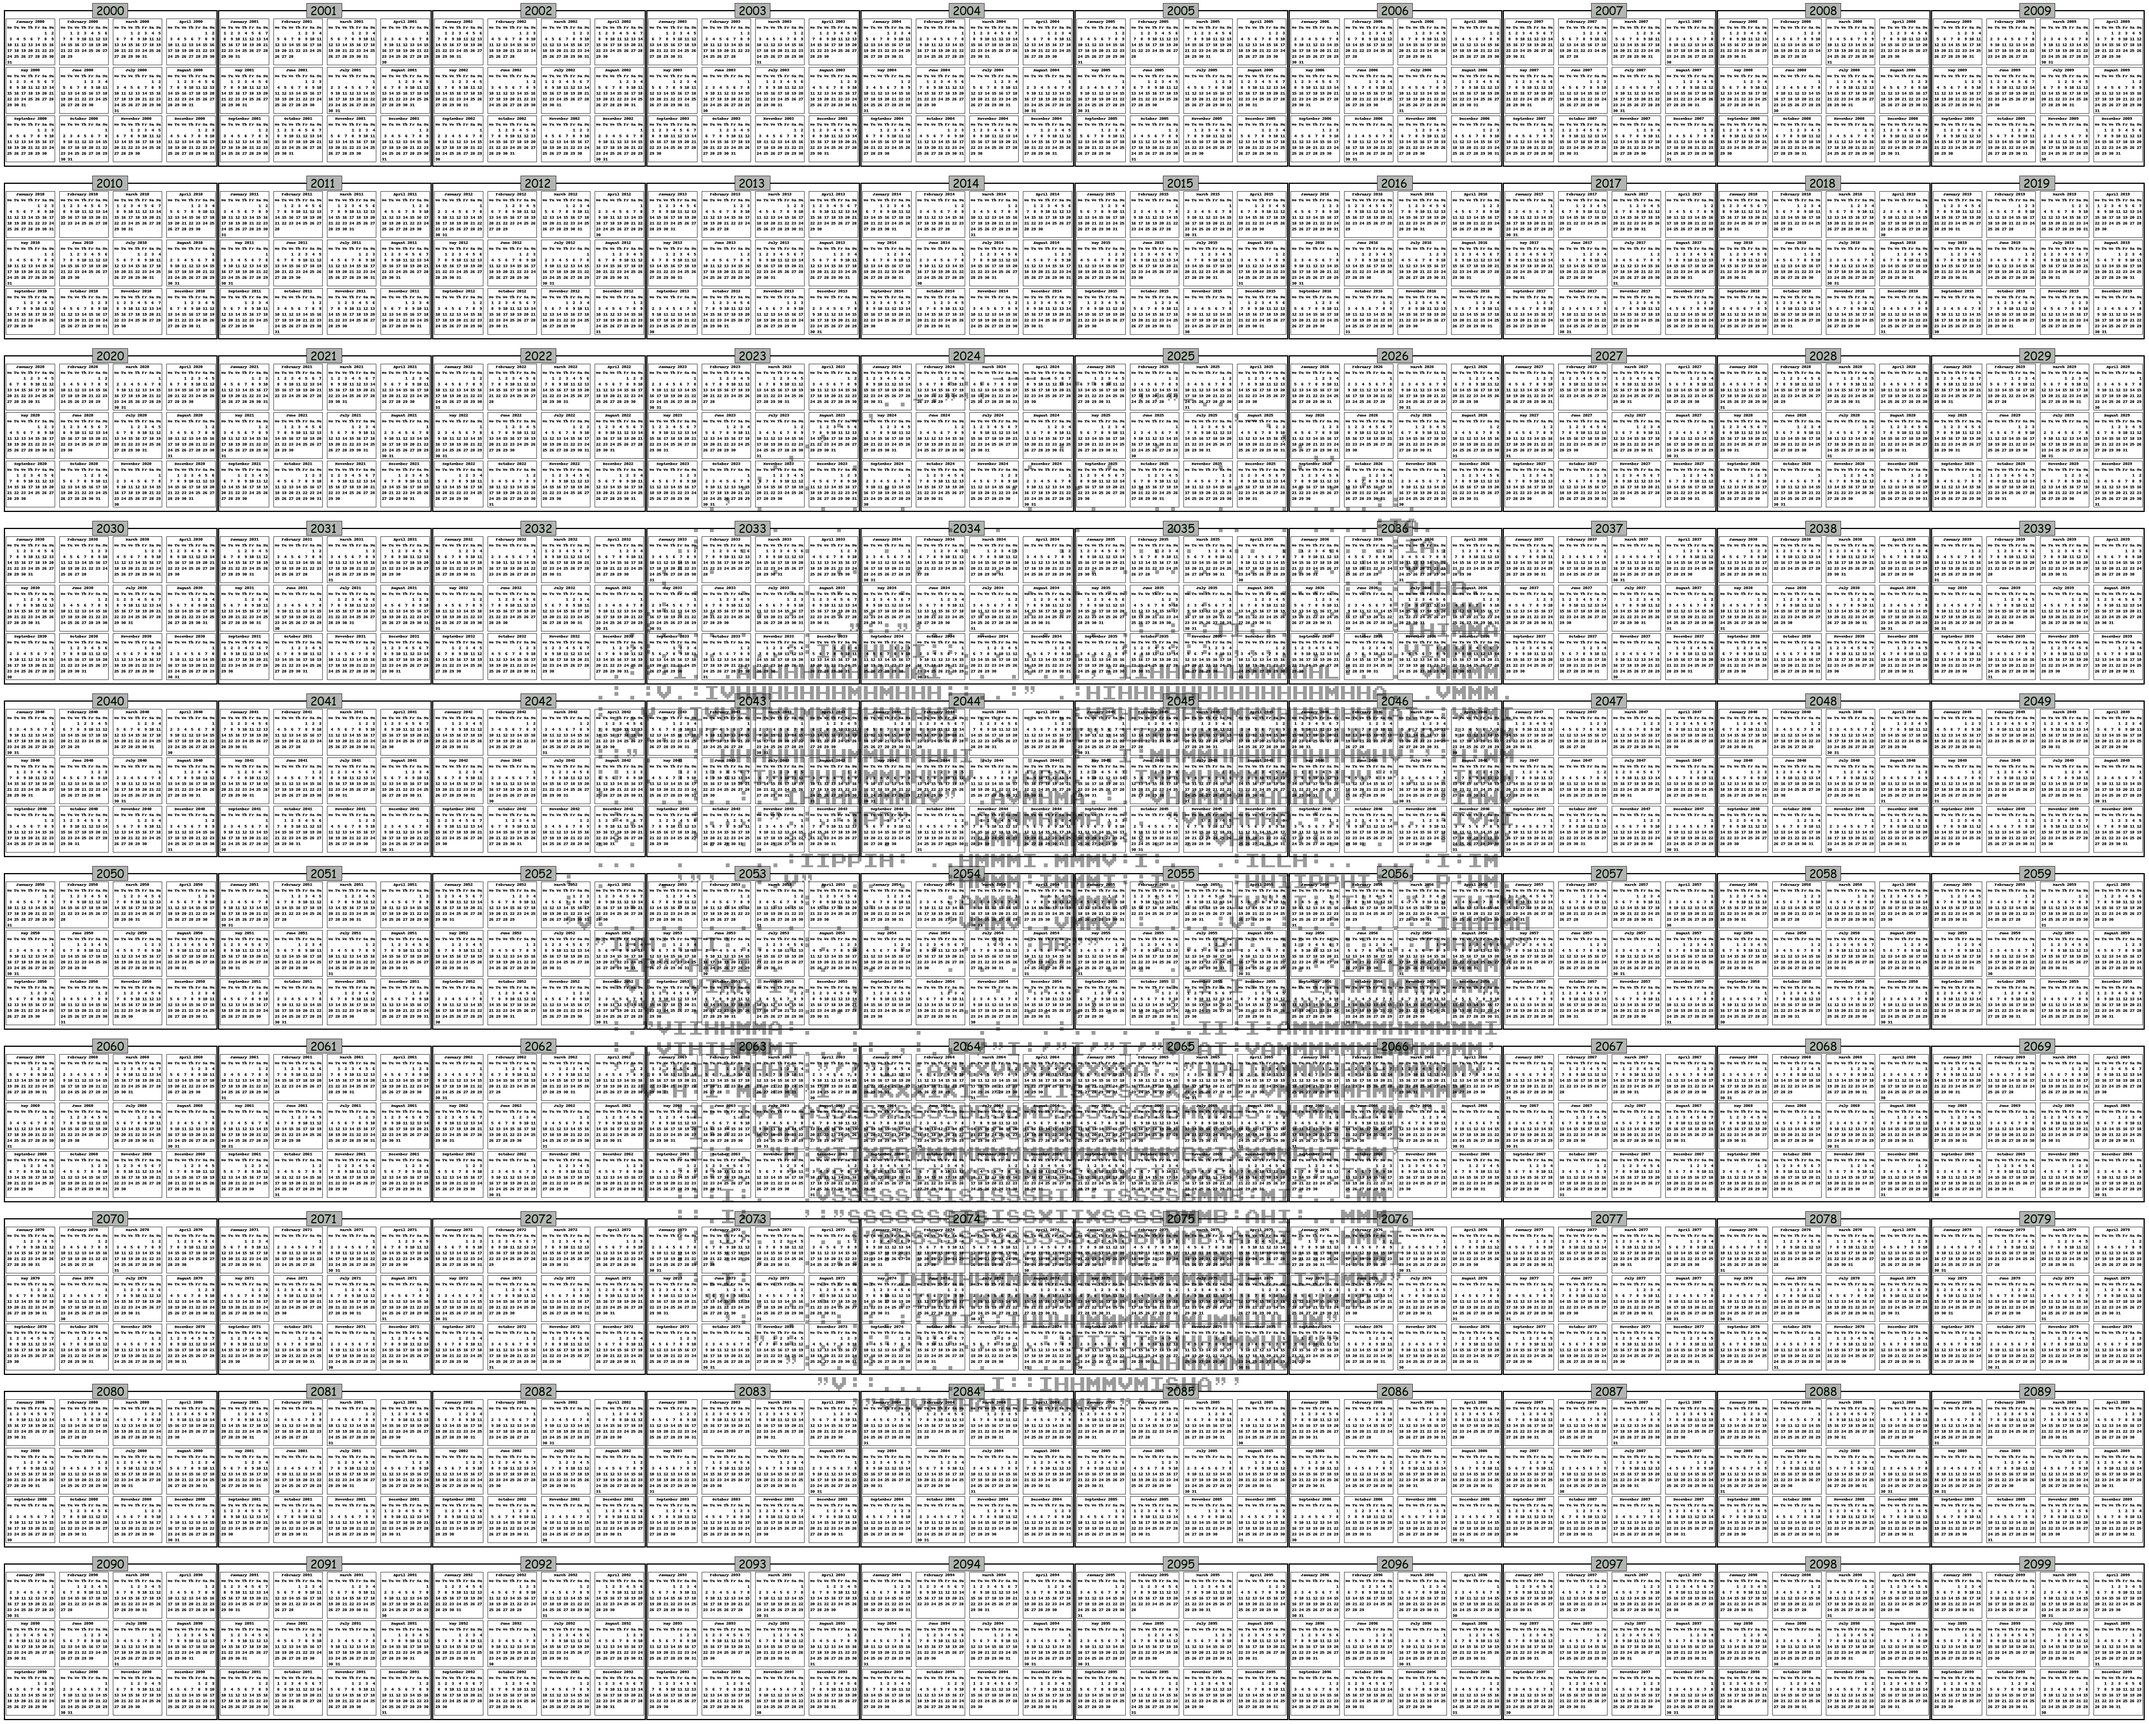
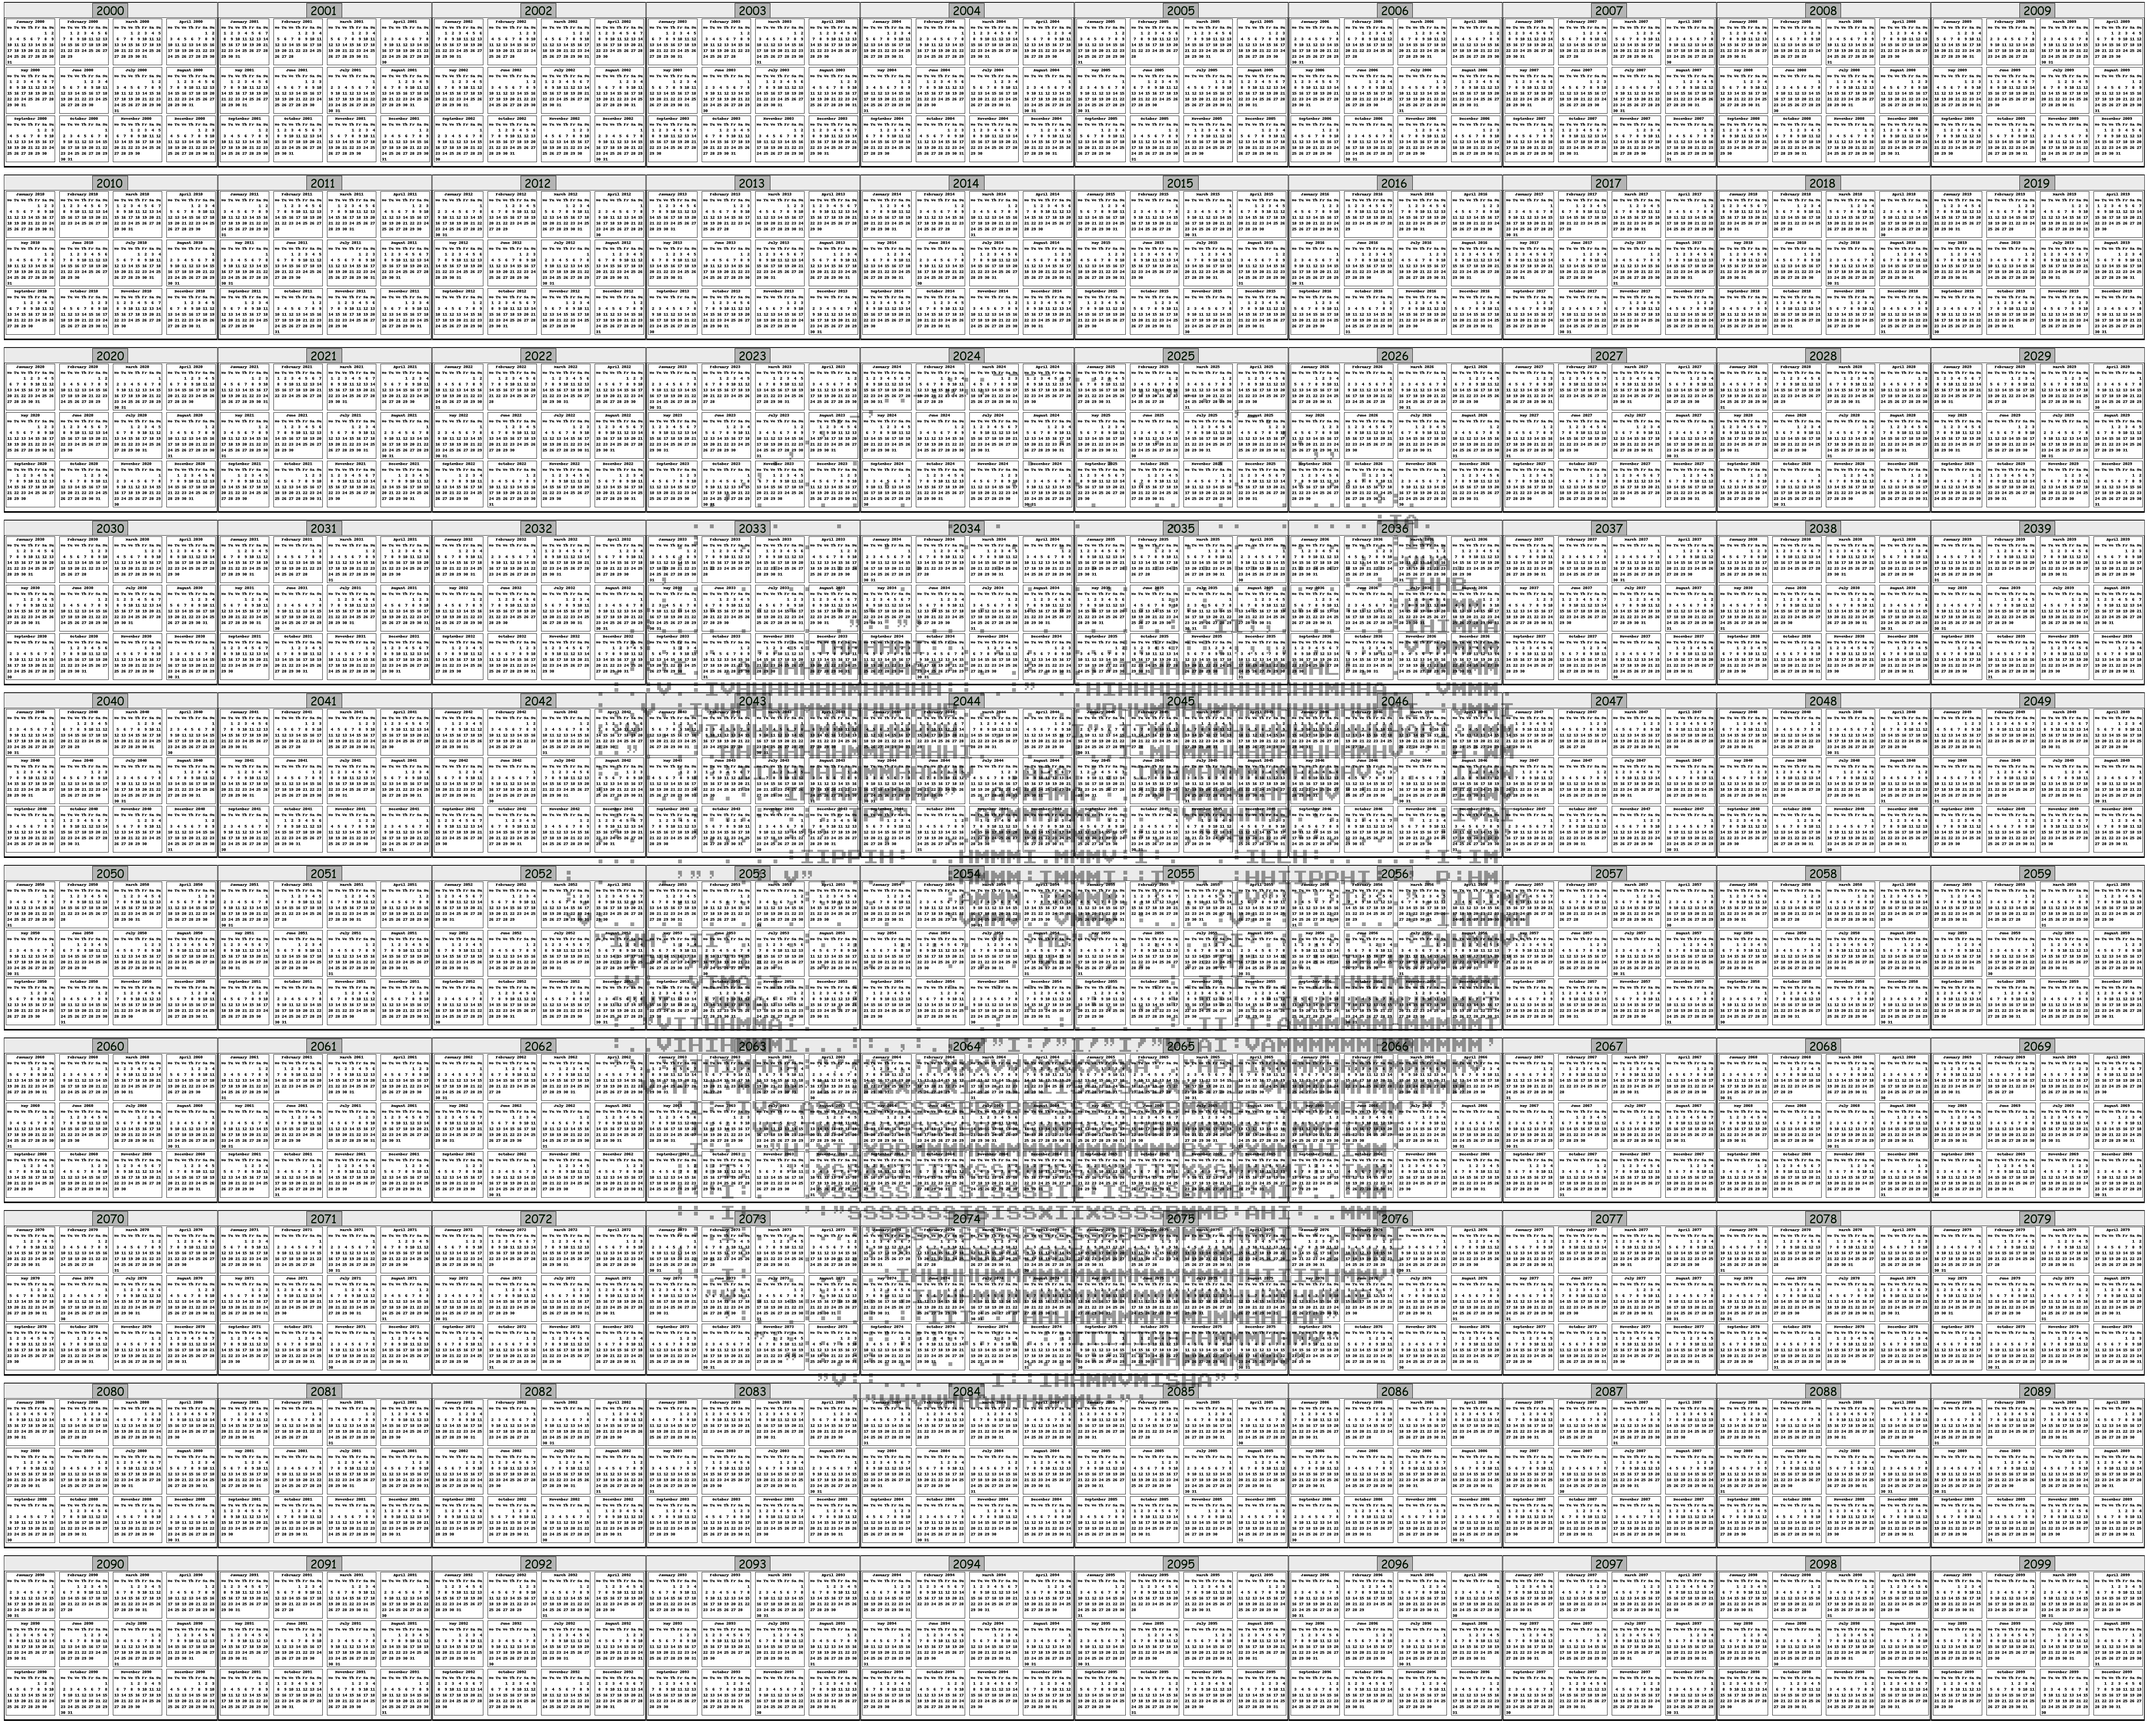
Finished calendar.

Changed region(s): [[0.281, 0.2794, 0.7182, 0.8382], [0.0, 0.9935, 0.9993, 1.0]]

diff --git a/src/calendar_generation.py b/src/calendar_generation.py
@@ -29,13 +29,16 @@ for year in range(2000, 2100):
     offw = 19
     yearcounter += 1
 
-    d.rectangle([(0 + 10 + rightshift, 26 + downshift), (560 + rightshift, 429 + downshift)], outline=(0, 0, 0), width=3)
+    d.rectangle([(0 + 10 + rightshift, 6 + downshift), (560 + rightshift, 429 + downshift)], outline=(0, 0, 0), width=2)
+    d.line([(0 + 10 + rightshift, 6 + downshift), (560 + rightshift, 6 + downshift)], fill=(0,0,0), width=4)
+    d.line([(0 + 10 + rightshift, 429 + downshift), (560 + rightshift, 429 + downshift)], fill=(0, 0, 0), width=4)
+    d.rectangle([(0 + 10 + rightshift, 6 + downshift), (560 + rightshift, 45 + downshift)], fill=(235, 235, 235), outline=(0, 0, 0), width=1)
     for month in range(1, 13):
-        str1 = plain.formatmonth(year, month)
-        # print(str1)
+        one_month_str = plain.formatmonth(year, month)
+        # print(one_month_str)
         monthcounter += 1
         d.rectangle([(offw + rightshift - 4, offh + downshift - 2), (offw + rightshift + 122, offh + downshift + 117)], outline=(0,0,0), width=1)
-        d.text((offw + rightshift, offh + downshift), str1, (0, 0, 0))
+        d.text((offw + rightshift, offh + downshift), one_month_str, (0, 0, 0))
         offw += 138
         if monthcounter == 4:
             monthcounter = 0
@@ -52,7 +55,7 @@ font = ImageFont.truetype("../fonts/joystix_monospace.ttf", 50)
 
 txt = Image.new('RGBA', img.size, (255,255,255,0))
 new_layer = ImageDraw.Draw(txt)
-new_layer.text((1240, 890), ascii.AsciiArts.skull, font=font, fill=(0, 0, 0, 100))
+new_layer.text((1240, 880), ascii.AsciiArts.skull, font=font, fill=(0, 0, 0, 100))
 combined = Image.alpha_composite(img, txt)
 
 combined.save('../calendar.png')
